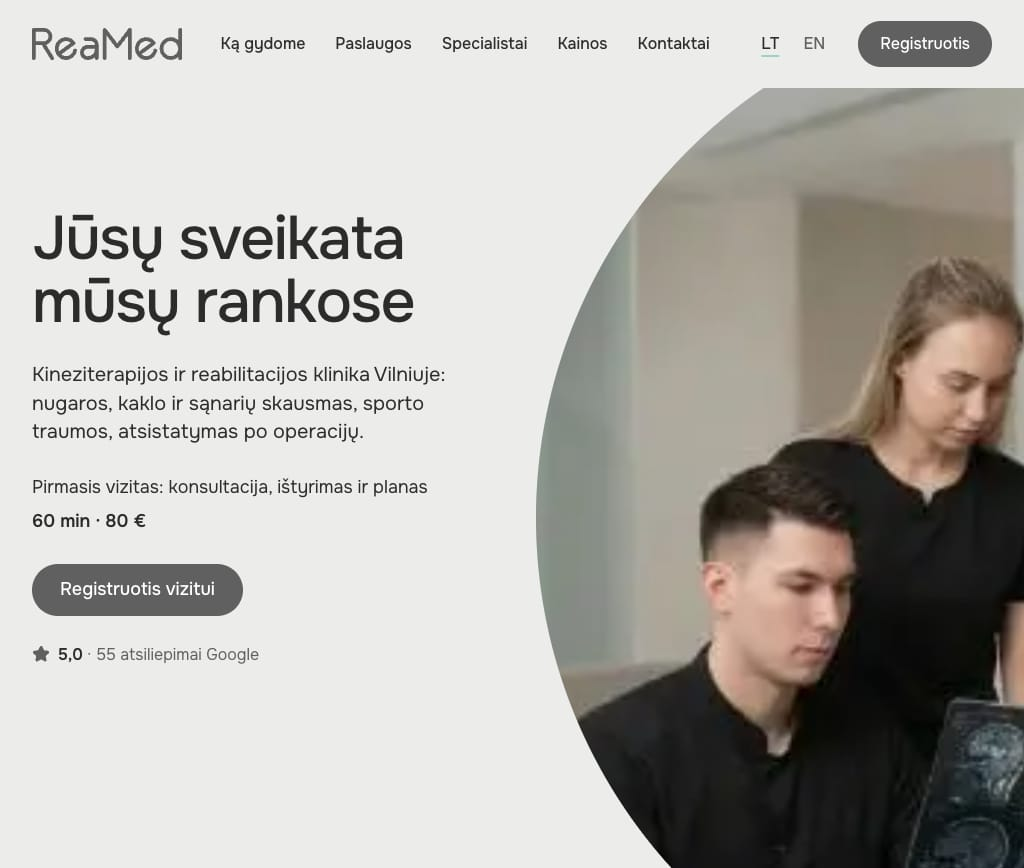
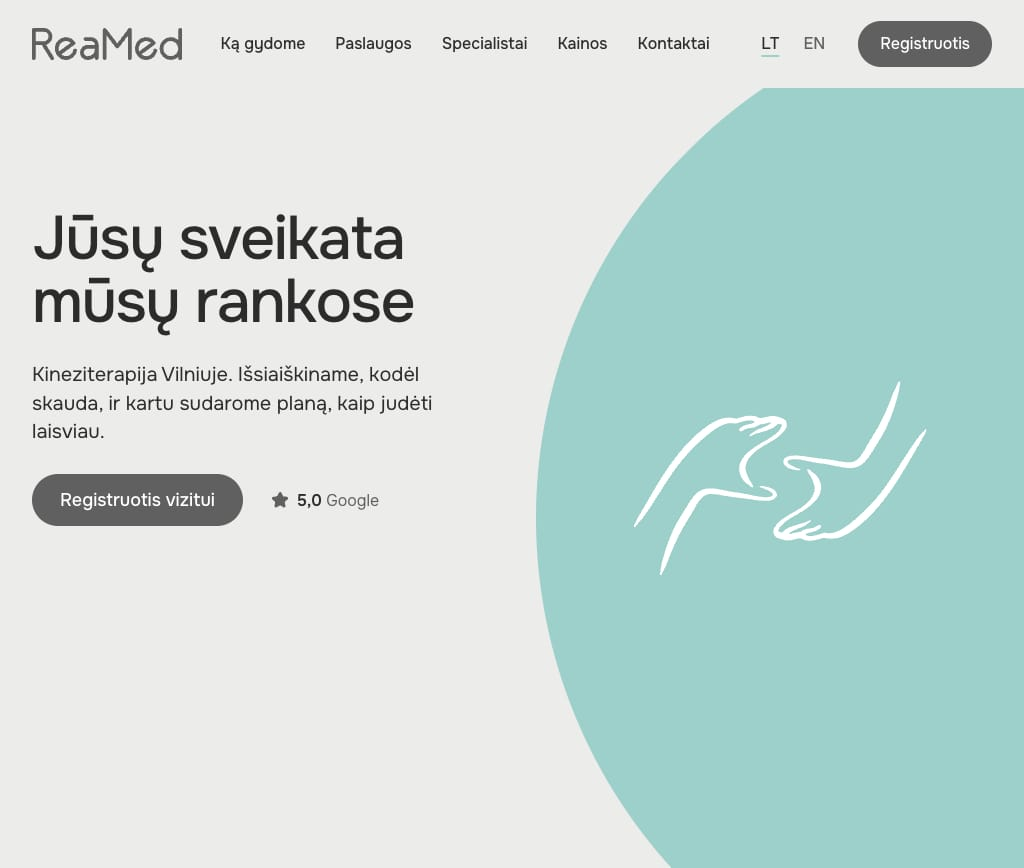
Hero: mint circle with white hands; toned First visit photo; new lead
- Hero circle: solid mint instead of the photo, white hands from the logo
  (public/brand/reamed-hands-white.svg, same path as the teal file).
  Hands are centred in the visible part of the circle and never cut:
  desktop 60% of that part (max 520px), phone 60vw at 39vw from the top.
  Circle geometry unchanged.
- Hero text: new lead, price line removed (it stays in First visit),
  rating is "5,0 Google" linking to the Google listing.
- First visit circle: clinic.jpg in grayscale + multiply over mint, blurred
  (6px, 4px on phones), overhanging the circle by 16px. clinic.jpg is now
  used only there.
- README of mockup G describes the new first screen.

diff --git a/src/components/sections/HeroSection.tsx b/src/components/sections/HeroSection.tsx
@@ -5,7 +5,21 @@ import Link from "next/link";
 import { Star } from "lucide-react";
 import { useLanguage } from "@/contexts/LanguageContext";
 import { GOOGLE_REVIEWS } from "@/data/reviews";
-import { formatRating, reviewsCountLabel } from "@/components/reviews/format";
+import { formatRating } from "@/components/reviews/format";
+
+// White hands from the logo, decoration only (viewBox 100 × 66.14).
+function Hands({ className }: { className: string }) {
+  return (
+    <Image
+      src="/brand/reamed-hands-white.svg"
+      alt=""
+      aria-hidden="true"
+      width={100}
+      height={66}
+      className={`absolute h-auto -translate-x-1/2 -translate-y-1/2 pointer-events-none ${className}`}
+    />
+  );
+}
 
 export default function HeroSection() {
   const { lang, t } = useLanguage();
@@ -19,41 +33,37 @@ export default function HeroSection() {
             {t.hero.title}
           </h1>
           <p className="text-lead">{t.hero.lead}</p>
-          <p className="flex flex-wrap gap-x-[18px] gap-y-1.5 text-body">
-            <span>{t.hero.priceLabel}</span>
-            <span className="font-semibold">{t.hero.price}</span>
-          </p>
           <div className="flex flex-wrap items-center gap-x-7 gap-y-4">
             <Link href="/registracija" className="btn btn-dark text-body w-full sm:w-auto">
               {t.hero.cta}
             </Link>
-            <a href="#atsiliepimai" className="inline-flex items-center gap-2 min-h-11 text-small text-graphite">
+            <a
+              href={GOOGLE_REVIEWS.url}
+              target="_blank"
+              rel="noopener noreferrer"
+              className="inline-flex items-center gap-2 min-h-11 text-small text-graphite hover:text-ink"
+            >
               <Star size={18} className="fill-current" aria-hidden="true" />
               <span>
-                <b className="font-semibold text-ink">{formatRating(GOOGLE_REVIEWS.rating, lang)}</b>
-                {" · "}
-                {reviewsCountLabel(GOOGLE_REVIEWS.count, lang, { quoted: false })}
+                <b className="font-semibold text-ink">{formatRating(GOOGLE_REVIEWS.rating, lang)}</b> Google
               </span>
             </a>
           </div>
         </div>
 
-        {/* Phone: full-bleed circle cut by the section's bottom edge.
-            Desktop: left edge at the container middle + 24px; at least 1040px
-            (taller than the 780px screen) and always wider than what is left
-            of the viewport, so the right edge cuts it. Only its left part is
-            visible there, so the frame moves right (73%) to keep the people in view. */}
-        <div className="relative mt-12 -ml-[10vw] -mb-[42vw] size-[120vw] rounded-full overflow-hidden bg-graphite/15 desk:absolute desk:m-0 desk:left-[calc(50%+24px)] desk:-top-[90px] desk:size-[max(1040px,calc(50vw+120px))]">
-          <Image
-            src="/photos/clinic.jpg"
-            alt={t.hero.photoAlt}
-            fill
-            priority
-            sizes="(min-width: 821px) max(1040px, calc(50vw + 120px)), 120vw"
-            className="object-cover object-[63%_50%] desk:object-[73%_50%]"
-          />
+        {/* Mint circle. Phone: 120vw, only its top 78vw shows above the section's
+            bottom edge. Desktop: left edge at the container middle + 24px; at least
+            1040px (taller than the 780px screen) and always wider than what is left
+            of the viewport, so the right edge cuts it. */}
+        <div className="relative mt-12 -ml-[10vw] -mb-[42vw] size-[120vw] rounded-full overflow-hidden bg-mint desk:absolute desk:m-0 desk:left-[calc(50%+24px)] desk:-top-[90px] desk:size-[max(1040px,calc(50vw+120px))]">
+          {/* Phone: centred on the screen, 39vw below the circle's top, 60vw wide. */}
+          <Hands className="desk:hidden top-[39vw] w-[60vw] left-[calc(60vw-var(--spacing-gutter))] md:left-[calc(60vw-var(--spacing-gutter-md))]" />
         </div>
       </div>
+
+      {/* Desktop: centred in the visible part of the circle (container middle + 24px
+          to the screen's right edge, full 780px height); 60% of its width, max 520px. */}
+      <Hands className="hidden desk:block top-1/2 left-[calc(75%+12px)] w-[min(calc((50%_-_24px)_*_0.6),520px)]" />
     </section>
   );
 }

diff --git a/src/lib/translations.ts b/src/lib/translations.ts
@@ -1,7 +1,7 @@
 export type Language = "lt" | "en";
 
 // Home page and shared blocks (header, footer).
-// Lithuanian copy is verbatim from docs/design/redesign-g/index.html.
+// Lithuanian copy is verbatim from docs/design/redesign-g/index.html; the hero lead was changed later by Piotr.
 // Reviews are referenced by id from src/data/reviews.ts and shown in their original language.
 
 export const translations = {
@@ -24,11 +24,8 @@ export const translations = {
     },
     hero: {
       title: "Jūsų sveikata mūsų rankose",
-      lead: "Kineziterapijos ir reabilitacijos klinika Vilniuje: nugaros, kaklo ir sąnarių skausmas, sporto traumos, atsistatymas po operacijų.",
-      priceLabel: "Pirmasis vizitas: konsultacija, ištyrimas ir planas",
-      price: "60 min · 80 €",
+      lead: "Kineziterapija Vilniuje. Išsiaiškiname, kodėl skauda, ir kartu sudarome planą, kaip judėti laisviau.",
       cta: "Registruotis vizitui",
-      photoAlt: "ReaMed kineziterapeutai aptaria paciento būklę ir dirba su pacientu",
     },
     areas: {
       title: "Kur skauda?",
@@ -183,11 +180,8 @@ export const translations = {
     },
     hero: {
       title: "Your health in our hands",
-      lead: "Physiotherapy and rehabilitation clinic in Vilnius: back, neck and joint pain, sports injuries, recovery after surgery.",
-      priceLabel: "First visit: consultation, assessment and plan",
-      price: "60 min · €80",
+      lead: "Physiotherapy in Vilnius. We find out why it hurts and work out a plan with you to move more freely.",
       cta: "Book a visit",
-      photoAlt: "ReaMed physiotherapists discussing a patient's condition and working with a patient",
     },
     areas: {
       title: "Where does it hurt?",

diff --git a/src/components/sections/FirstVisitSection.tsx b/src/components/sections/FirstVisitSection.tsx
@@ -31,14 +31,18 @@ export default function FirstVisitSection() {
             </Link>
           </p>
         </div>
-        <div className="relative w-full aspect-square rounded-full overflow-hidden bg-graphite/15 md:max-w-[560px] md:justify-self-end">
-          <Image
-            src="/photos/clinic.jpg"
-            alt={t.visit.photoAlt}
-            fill
-            sizes="(min-width: 768px) 560px, 100vw"
-            className="object-cover object-[100%_50%]"
-          />
+        {/* The photo is low quality: toned into the mint and blurred. It overhangs the
+            circle by 16px so the blurred edge never shows as a light rim. */}
+        <div className="relative isolate w-full aspect-square rounded-full overflow-hidden bg-mint md:max-w-[560px] md:justify-self-end">
+          <div className="absolute -inset-4">
+            <Image
+              src="/photos/clinic.jpg"
+              alt={t.visit.photoAlt}
+              fill
+              sizes="(min-width: 768px) 592px, calc(100vw + 32px)"
+              className="object-cover object-[100%_50%] mix-blend-multiply [filter:grayscale(1)_contrast(.85)_brightness(1.15)_blur(4px)] desk:[filter:grayscale(1)_contrast(.85)_brightness(1.15)_blur(6px)]"
+            />
+          </div>
         </div>
       </div>
     </section>

diff --git a/docs/design/redesign-g/README.md b/docs/design/redesign-g/README.md
@@ -65,12 +65,14 @@
 Поле `photo` в `src/lib/specialists.ts` перевести на новые файлы. Старые удалить, если на них больше ничего не ссылается.
 
 Общее фото — `public/hero.jpg` (1024×434). Метка стоит в квадрате x 944–1012, y 356–433.
-Сделать `public/photos/clinic.jpg`: обрезать нижние 80 px, получится 1024×354. Использовать только эту версию.
-Фото низкого разрешения, его заменит фотосъёмка (п. 3 плана). Blur не нужен.
+Сделать `public/photos/clinic.jpg`: обрезать нижние 80 px, получится 1024×354. Использовать только эту версию
+и только в «Pirmasis vizitas». Фото низкого разрешения, его заменит фотосъёмка (п. 3 плана).
 
-Форма фото по макету:
-- первый экран — большой круг, обрезанный правым краем;
-- «Pirmasis vizitas» — круг, справа часть кадра с массажем;
+Форма фото и кругов:
+- первый экран — мятный круг без фото, обрезанный правым краем, с белыми руками (см. ниже);
+- «Pirmasis vizitas» — круг с `clinic.jpg`, справа часть кадра с массажем, в мятном тоне и размытый:
+  фон круга mint; у img `filter: grayscale(1) contrast(.85) brightness(1.15) blur(6px)` (на телефоне `blur(4px)`),
+  `mix-blend-mode: multiply`; img выходит на 16 px за края круга (`inset: -16px`), чтобы не было светлой каймы;
 - специалисты — арка: `border-radius: 999px 999px 0 0`, пропорция 4:5.
 
 ## Главная по секциям (сверху вниз)
@@ -81,13 +83,19 @@
    - телефон и кнопка «Registruotis» → `/registracija`;
    - переключатель LT/EN сохранить, мобильное меню сохранить;
    - тёмную верхнюю полосу с часами убрать: часы есть в блоке записи.
-2. **Первый экран:**
+2. **Первый экран** (изменён после утверждения макета, `index.html` его не показывает):
    - h1 «Jūsų sveikata mūsų rankose»;
-   - lead «Kineziterapijos ir reabilitacijos klinika Vilniuje: nugaros, kaklo ir sąnarių skausmas, sporto traumos, atsistatymas po operacijų.»;
-   - строка цены «Pirmasis vizitas: konsultacija, ištyrimas ir planas · **60 min · 80 €**»;
-   - кнопка «Registruotis vizitui» и ссылка «★ 5,0 · 55 atsiliepimai Google» (цифры из `GOOGLE_REVIEWS`);
-   - справа круг 1040px с `clinic.jpg`, `object-position: 63% 50%`;
-   - через `next/image` с `priority`.
+   - lead «Kineziterapija Vilniuje. Išsiaiškiname, kodėl skauda, ir kartu sudarome planą, kaip judėti laisviau.»;
+   - строки цены нет: цена — в «Pirmasis vizitas»;
+   - кнопка «Registruotis vizitui» и ссылка «★ 5,0 Google» (оценка из `GOOGLE_REVIEWS.rating`, ссылка на `GOOGLE_REVIEWS.url`);
+   - сплошной мятный круг (mint) без фото, внутри белые руки из логотипа (`public/brand/reamed-hands-white.svg`,
+     тот же путь, что в `reamed-hands-teal.svg`), декор: `aria-hidden`, пустой `alt`;
+   - десктоп (от 821 px): левый край круга — середина контейнера + 24 px, диаметр `max(1040px, 50vw + 120px)`,
+     верх −90 px, круг обрезается правым краем; колонка текста не шире половины контейнера минус 48 px;
+   - руки на десктопе: по центру видимой части круга (от его левого края до правого края экрана, высота секции 780 px),
+     ширина 60% этой части, но не больше 520 px;
+   - телефон: круг 120vw, видна верхняя часть высотой 78vw; руки по центру экрана, центр на 39vw от верха круга, ширина 60vw;
+   - руки всегда целиком внутри видимой части круга: их не режут ни край экрана, ни край секции, ни граница круга.
 3. **«Kur skauda?»** (paper), живой выбор:
    - слева 8 проблем: кнопки-строки с мятной точкой, выбранная — pill graphite с белым текстом;
    - справа панель (ground): название, 1–2 фразы, один настоящий отзыв по метке `conditions` дословно, кнопки «Registruotis» и «Plačiau apie tai» → `/ka-gydome/<slug>`;
@@ -104,7 +112,7 @@
 5. **Pirmasis vizitas** (ground):
    - h2, фраза «Išklausome, ištiriame judesį ir paaiškiname, kas vyksta. Išeinate su aiškiu gydymo planu.»;
    - строка «60 min · 80 € · I–V 8–19 val.», ссылка «Visos kainos ir paketai» → `/kainos`;
-   - справа круг с фото. Вместо плиток 01–04.
+   - справа круг с фото в мятном тоне (см. «Фото»). Вместо плиток 01–04.
 6. **Отзывы** (paper):
    - слева h2 «Atsiliepimai», крупно 5,0, звёзды, ссылка на Google;
    - справа две цитаты: Dominykas D. (про Eriką) и Ilja C. (про Kotryną);
